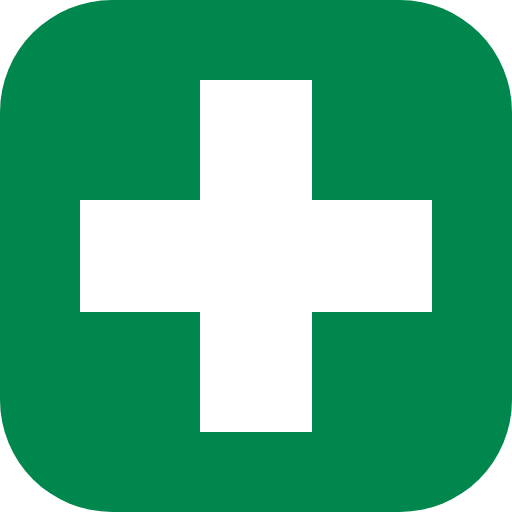
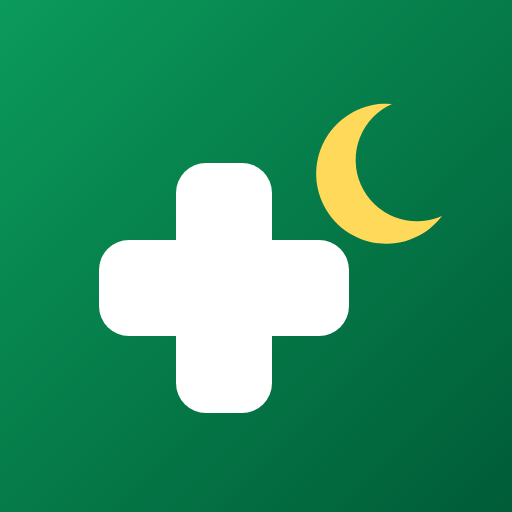
Ícone novo: cruz e lua
Ícone da tela inicial e da aba no estilo Material, com o verde atual. No topo do app,
a cruz e a lua aparecem sem o fundo, direto sobre o verde.
PNGs sem cantos recortados e marcados como maskable, para o celular arredondar.

Claude-Session: https://claude.ai/code/session_017Da7KYvxErtaUo34BUHcAq

diff --git a/index.html b/index.html
@@ -72,8 +72,8 @@ svg{flex:none}
   transition:box-shadow .2s var(--md-ease)}
 .app-bar.rolou{box-shadow:0 2px 6px 2px rgba(0,0,0,.15),0 1px 2px rgba(0,0,0,.3)}
 .app-bar-conteudo{max-width:640px;margin:0 auto;min-height:64px;display:flex;align-items:center;gap:16px}
-.app-bar .logo{width:40px;height:40px;border-radius:12px;background:#fff;display:grid;place-items:center}
-.app-bar .logo svg{width:22px;height:22px;fill:var(--barra)}
+.app-bar .logo{width:40px;height:40px;display:grid;place-items:center}
+.app-bar .logo svg{width:40px;height:40px}
 .app-bar h1{font-size:1.375rem;line-height:1.75rem;font-weight:400}
 .app-bar p{color:rgba(255,255,255,.85)}
 
@@ -198,7 +198,7 @@ svg{flex:none}
 <body>
 <header class="app-bar" id="app-bar">
   <div class="app-bar-conteudo">
-    <div class="logo" aria-hidden="true"><svg viewBox="0 0 24 24"><path d="M8.5 2h7v6.5H22v7h-6.5V22h-7v-6.5H2v-7h6.5z"/></svg></div>
+    <div class="logo" aria-hidden="true"><svg viewBox="88 92 366 366"><rect x="176" y="163" width="96" height="250" rx="30" fill="#fff"/><rect x="99" y="240" width="250" height="96" rx="30" fill="#fff"/><path d="M392 104a70 70 0 1 0 50 112a58 58 0 1 1-50-112z" fill="#FFD95A"/></svg></div>
     <div>
       <h1>Farmácias de plantão</h1>
       <p class="body-m">Itaocara-RJ</p>

diff --git a/sw.js b/sw.js
@@ -1,5 +1,5 @@
 // Rede primeiro, para a escala nova aparecer logo; sem internet, usa a última cópia salva.
-const CACHE = "plantao-v3";
+const CACHE = "plantao-v4";
 const ARQUIVOS = ["./", "index.html", "manifest.webmanifest", "icone.svg", "icone-192.png", "icone-512.png"];
 
 self.addEventListener("install", e => {
